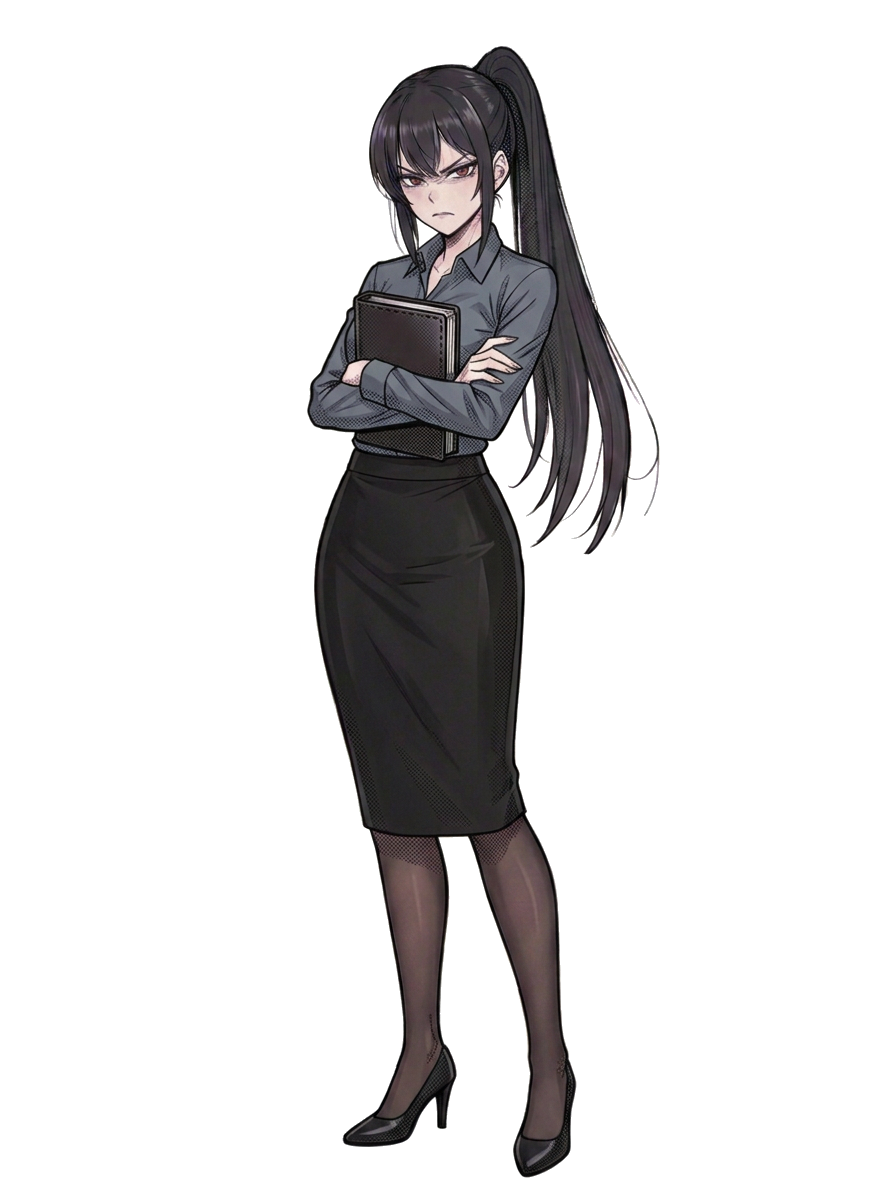
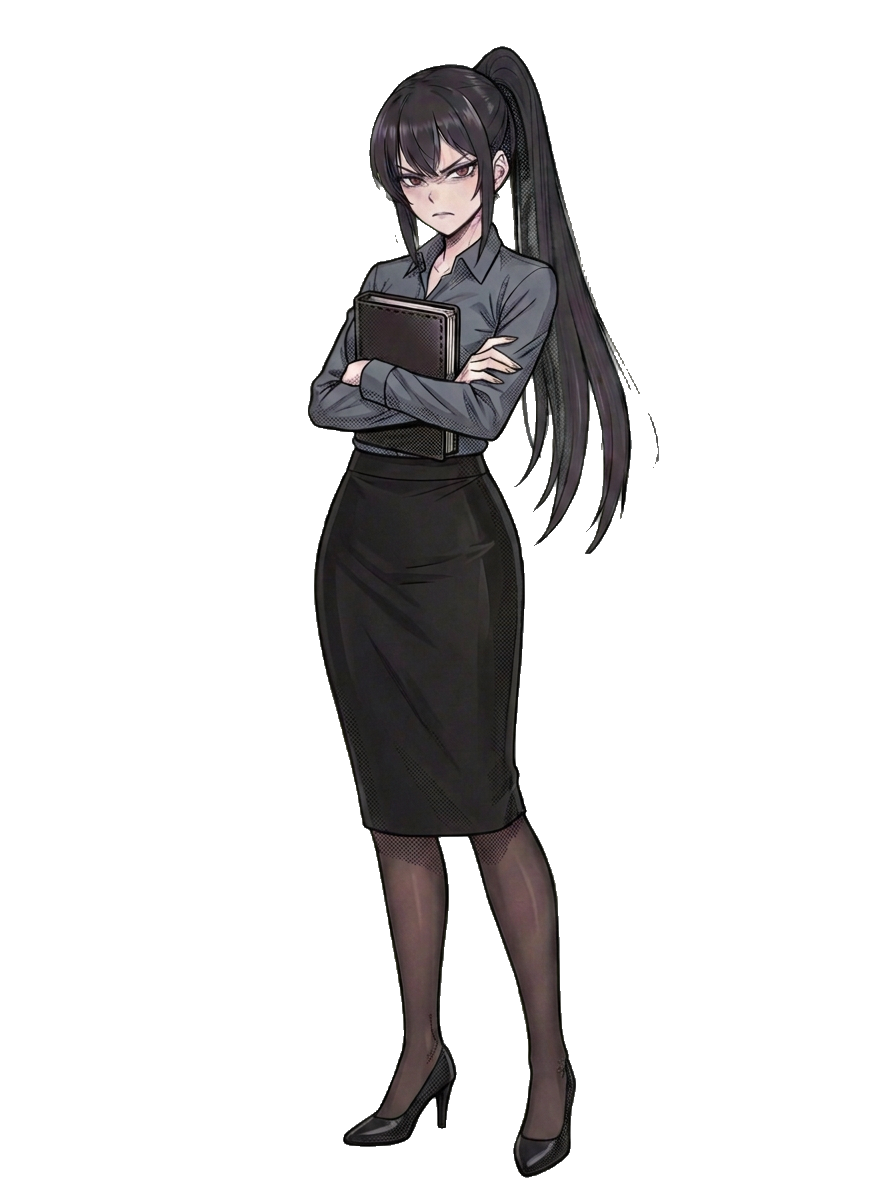
Re-cut Valeria x10 (true form complete, human x5) via chroma key; fix darkened skin on human_amused; ASSET_VER _18

diff --git a/index.html b/index.html
@@ -260,34 +260,34 @@
   </div>
 
   <!-- SCRIPT CHAPTERS -->
-  <script src="vn-config.js?v=20261101_17"></script>
-  <script src="vn-core.js?v=20261101_17"></script>
-  <script src="script/_registry.js?v=20261101_17"></script>
-  <script src="script/prologue_1_morning.js?v=20261101_17"></script>
-  <script src="script/prologue_2_city.js?v=20261101_17"></script>
-  <script src="script/prologue_3_barbershop.js?v=20261101_17"></script>
-  <script src="script/prologue_4_depot.js?v=20261101_17"></script>
-  <script src="script/prologue_5_crash.js?v=20261101_17"></script>
-  <script src="script/day1_1_mirael.js?v=20261101_17"></script>
-  <script src="script/day1_2_valeria.js?v=20261101_17"></script>
-  <script src="script/day1_3_evening.js?v=20261101_17"></script>
-  <script src="script/day2_1_quit.js?v=20261101_17"></script>
-  <script src="script/day2_2_zero.js?v=20261101_17"></script>
-  <script src="script/day2_3_walk.js?v=20261101_17"></script>
-  <script src="script/day3_1_office.js?v=20261101_17"></script>
-  <script src="script/day3_2_nika.js?v=20261101_17"></script>
-  <script src="script/day3_3_home.js?v=20261101_17"></script>
-  <script src="script/day4_1_free.js?v=20261101_17"></script>
-  <script src="script/day4_2_barbershop.js?v=20261101_17"></script>
-  <script src="script/day4_3_home.js?v=20261101_17"></script>
-  <script src="script/day5_1_artyom.js?v=20261101_17"></script>
-  <script src="script/day5_2_elevator.js?v=20261101_17"></script>
-  <script src="script/day5_3_night.js?v=20261101_17"></script>
-  <script src="script/day6_1_morning.js?v=20261101_17"></script>
-  <script src="script/day6_2_squeeze.js?v=20261101_17"></script>
-  <script src="script/day6_3_taya.js?v=20261101_17"></script>
-  <script src="script/day7_1_voices.js?v=20261101_17"></script>
-  <script src="script/day7_2_stairs.js?v=20261101_17"></script>
-  <script src="engine.js?v=20261101_17"></script>
+  <script src="vn-config.js?v=20261101_18"></script>
+  <script src="vn-core.js?v=20261101_18"></script>
+  <script src="script/_registry.js?v=20261101_18"></script>
+  <script src="script/prologue_1_morning.js?v=20261101_18"></script>
+  <script src="script/prologue_2_city.js?v=20261101_18"></script>
+  <script src="script/prologue_3_barbershop.js?v=20261101_18"></script>
+  <script src="script/prologue_4_depot.js?v=20261101_18"></script>
+  <script src="script/prologue_5_crash.js?v=20261101_18"></script>
+  <script src="script/day1_1_mirael.js?v=20261101_18"></script>
+  <script src="script/day1_2_valeria.js?v=20261101_18"></script>
+  <script src="script/day1_3_evening.js?v=20261101_18"></script>
+  <script src="script/day2_1_quit.js?v=20261101_18"></script>
+  <script src="script/day2_2_zero.js?v=20261101_18"></script>
+  <script src="script/day2_3_walk.js?v=20261101_18"></script>
+  <script src="script/day3_1_office.js?v=20261101_18"></script>
+  <script src="script/day3_2_nika.js?v=20261101_18"></script>
+  <script src="script/day3_3_home.js?v=20261101_18"></script>
+  <script src="script/day4_1_free.js?v=20261101_18"></script>
+  <script src="script/day4_2_barbershop.js?v=20261101_18"></script>
+  <script src="script/day4_3_home.js?v=20261101_18"></script>
+  <script src="script/day5_1_artyom.js?v=20261101_18"></script>
+  <script src="script/day5_2_elevator.js?v=20261101_18"></script>
+  <script src="script/day5_3_night.js?v=20261101_18"></script>
+  <script src="script/day6_1_morning.js?v=20261101_18"></script>
+  <script src="script/day6_2_squeeze.js?v=20261101_18"></script>
+  <script src="script/day6_3_taya.js?v=20261101_18"></script>
+  <script src="script/day7_1_voices.js?v=20261101_18"></script>
+  <script src="script/day7_2_stairs.js?v=20261101_18"></script>
+  <script src="engine.js?v=20261101_18"></script>
 </body>
 </html>

diff --git a/engine.js b/engine.js
@@ -1,6 +1,6 @@
 // ДВИЖОК ВИЗУАЛЬНОЙ НОВЕЛЛЫ «НЕ СМОТРИ НА НЕБО» ($WAG ENTERTAINMENT)
 (function () {
-  const ASSET_VER = "20261101_17";
+  const ASSET_VER = "20261101_18";
 
   function withVer(url) {
     if (!url) return "";

diff --git a/docs/production/assets.md b/docs/production/assets.md
@@ -119,15 +119,17 @@
 3. Проверка: силуэт совпадает со старым (IoU ≳ 0.99), лицо не уехало, зелёных пикселей 0.
 4. Для персонажей без зелёного в палитре (Мираэль: белые перья, голубые глаза) — `--neutral-despill`, снимает зеленоватый отлив с белого. Саше нельзя: серо-зелёные глаза.
 5. Зелёный ключ; для персонажей в зелёном (Тая — оливковый кардиган) — `--key blue`.
-6. **Артём — не трогаем** (автор: «нормально сделан, оставим»; лицо срисовано с реального человека).
+6. Если генератор при замене фона изменил цвет внутри фигуры (кожа, ткань), а масштаб 1.000: сдвинуть оригинал на целый пиксель по `cv2.phaseCorrelate` контуров и перенести его RGB во внутреннюю область (alpha=255, эрозия 7 px), край оставить от зелёной версии.
+7. **Артём — не трогаем** (автор: «нормально сделан, оставим»; лицо срисовано с реального человека).
 
 | Набор | Статус |
 |---|---|
 | Саша, рубашка: neutral, smile, stressed*, surprised*, thoughtful, wounded, determined_anger, happy, sad, shocked* | ✅ 01.11 (* — поправлены глаза) |
 | Саша: shy, shocked_terrified, куртка ×7 (shocked*, surprised*), courier_rain | ✅ 01.11 — **Саша закрыт целиком, 20/20** |
 | Мираэль: ангел ×8, человек ×8 (`--neutral-despill`) | ✅ 01.11 — у крыльев вернулись перья, открыты просветы между прядями |
-| Валерия, истинный облик: neutral, amused, angry, cold_serious (`--neutral-despill`) | ✅ 01.11 |
-| Валерия, истинный облик: contract, playful_smile, soft_vulnerable, surprised, thoughtful; human ×9 | ⏳ |
+| Валерия, истинный облик ×9 (`--neutral-despill`) | ✅ 01.11 |
+| Валерия, human: neutral, amused, angry, cold_serious, contract | ✅ 01.11 (amused: генератор затемнил кожу, цвет внутри фигуры перенесён из оригинала, маска и края от зелёной версии) |
+| Валерия, human: playful_smile, soft_vulnerable, surprised, thoughtful | ⏳ |
 | Лена ×10, Ника ×8, Дмитрий ×5 | ⏳ |
 | Тая | ждём новый дефолтный спрайт от автора |
 
